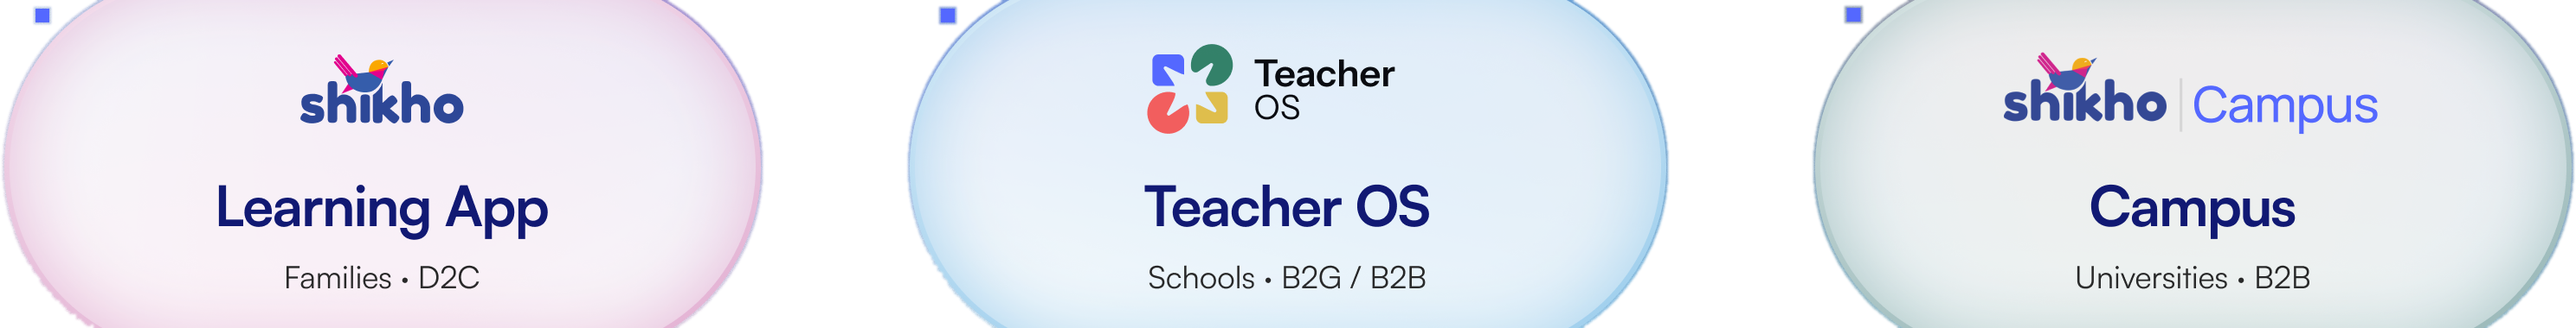
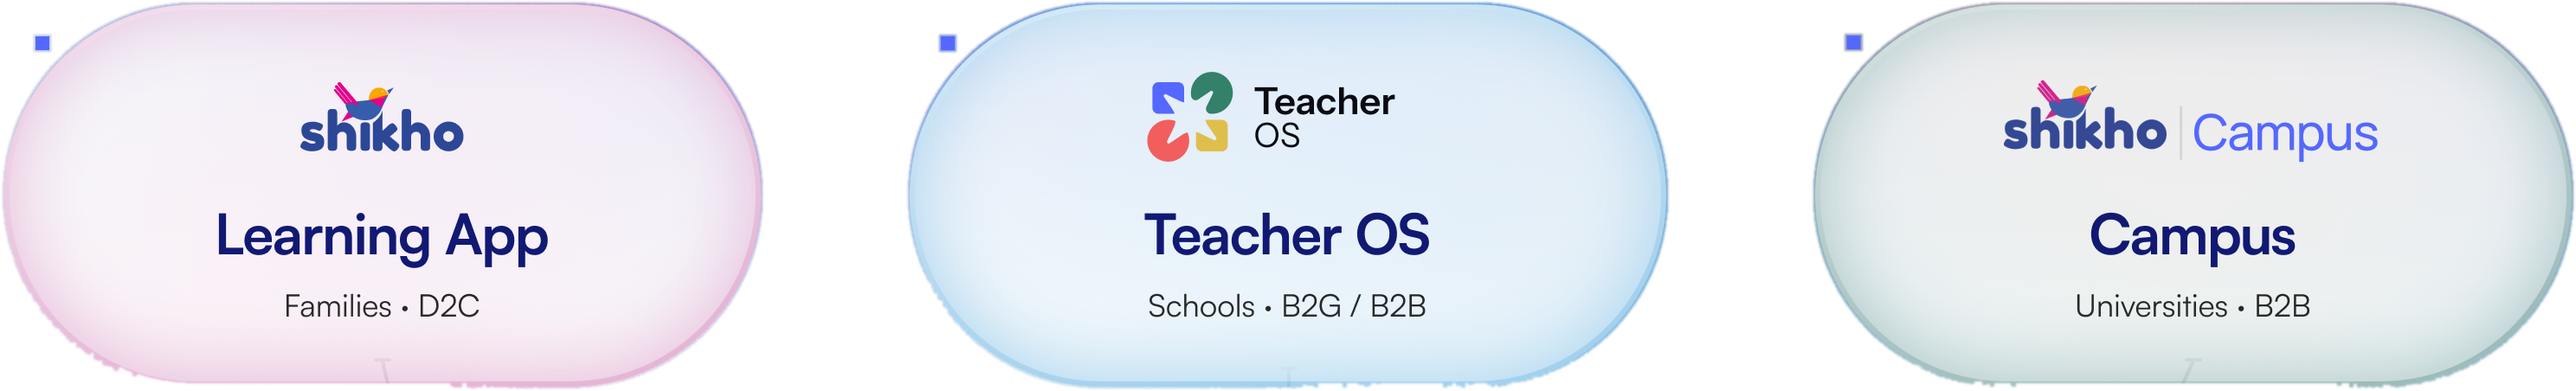
Engine slide: full-height pills, arrows draw into the shared engine
The pill row overflows its 150px Figma container, so the first cut clipped
the pills' tops and bottoms; re-cut at full height. The three flow arrows
are now stroked SVG paths that draw from each product into the engine,
staggered, with the arrowhead landing last.

diff --git a/index.html b/index.html
@@ -110,6 +110,15 @@
     font-family:"Satoshi","Inter",sans-serif; font-weight:700; text-transform:uppercase;
     font-size:100px; line-height:1.1; letter-spacing:-3px; color:#f4f5e7;
   }
+  /* Flow arrows into the shared engine: drawn from each product into the engine (stroke reveal), head lands last */
+  .flow-arrow{ position:absolute; z-index:2; overflow:visible; pointer-events:none; }
+  .flow-arrow path{ fill:none; stroke-width:2; stroke-linecap:round; stroke-linejoin:round; }
+  .flow-line{ stroke-dasharray:1 1; }
+  .slide.play .flow-line{ animation:flow-draw 800ms var(--ease-out) calc(900ms + var(--d)) backwards; }
+  .slide.play .flow-head{ animation:flow-head 260ms var(--ease-out) calc(1560ms + var(--d)) backwards; }
+  @keyframes flow-draw{ from{ stroke-dashoffset:1; } }
+  @keyframes flow-head{ from{ opacity:0; } }
+  @media (prefers-reduced-motion: reduce){ .slide.play .flow-line, .slide.play .flow-head{ animation:none; } }
   .engine-note{
     position:absolute; left:1426px; top:873px; width:385px; z-index:2; text-align:right;
     font-family:"Satoshi","Inter",sans-serif; font-weight:400; font-size:32px; line-height:0.98; color:#262626;
@@ -1044,10 +1053,16 @@ function slideEl(data, i){
           <div class="p3-header-right">${data.pageTag}</div>
         </div>
         <div class="engine-title">${data.title}</div>
-        <img class="intro-art" src="assets/web/intro/s3-pills.webp" style="left:198.5px; top:415px; width:1488px; height:190px;" alt="Learning App, Teacher OS and Campus">
-        <img class="intro-art" src="assets/intro/s3-arrow-left.svg" style="left:414.5px; top:606px; width:285px; height:211.76px;" alt="">
-        <img class="intro-art" src="assets/intro/s3-arrow-mid.svg" style="left:935.6px; top:611px; width:14.73px; height:74.5px;" alt="">
-        <img class="intro-art" src="assets/intro/s3-arrow-right.svg" style="left:1182px; top:606px; width:288.5px; height:211.49px;" alt="">
+        <img class="intro-art" src="assets/web/intro/s3-pills.webp?v=2" style="left:198.5px; top:399px; width:1488px; height:226px;" alt="Learning App, Teacher OS and Campus">
+        <svg class="flow-arrow" style="left:414.5px; top:606px; width:285px; height:211.76px; --d:0ms;" viewBox="0 0 285 211.76" aria-hidden="true"><defs><linearGradient id="fa-l" x1="133.25" y1="-19" x2="133.25" y2="205.5" gradientUnits="userSpaceOnUse"><stop stop-opacity="0.02"/><stop offset="1" stop-opacity="0.47"/></linearGradient></defs>
+          <path class="flow-line" pathLength="1" stroke="url(#fa-l)" d="M5 1C5 1 7 12 11 27C16.9 42.7 27.4 64.2 46 87C83.4 132.8 153.4 184 284 205.6"/>
+          <path class="flow-head" stroke="url(#fa-l)" d="M278.4 197.9L284.2 205.6L276.6 210.8"/></svg>
+        <svg class="flow-arrow" style="left:935.6px; top:611px; width:14.73px; height:74.5px; --d:120ms;" viewBox="0 0 14.7279 74.5" aria-hidden="true"><defs><linearGradient id="fa-m" x1="14.364" y1="1" x2="14.364" y2="90.99" gradientUnits="userSpaceOnUse"><stop stop-opacity="0.02"/><stop offset="1" stop-opacity="0.47"/></linearGradient></defs>
+          <path class="flow-line" pathLength="1" stroke="url(#fa-m)" d="M7.364 1V73"/>
+          <path class="flow-head" stroke="url(#fa-m)" d="M1 67.1L7.364 73.5L13.73 67.1"/></svg>
+        <svg class="flow-arrow" style="left:1182px; top:606px; width:288.5px; height:211.49px; --d:240ms;" viewBox="0 0 288.5 211.49" aria-hidden="true"><defs><linearGradient id="fa-r" x1="173.25" y1="-19" x2="173.25" y2="205.5" gradientUnits="userSpaceOnUse"><stop stop-opacity="0.02"/><stop offset="1" stop-opacity="0.47"/></linearGradient></defs>
+          <path class="flow-line" pathLength="1" stroke="url(#fa-r)" d="M283.5 1C283.5 1 278 15 270 26.6C261.1 41.7 247 63 226.4 86.4C183.9 131.9 113.2 183 1 205.5"/>
+          <path class="flow-head" stroke="url(#fa-r)" d="M6.8 197.9L1.2 205.3L8.5 210.6"/></svg>
         <img class="intro-art" src="assets/web/intro/s3-engine.webp" style="left:681.5px; top:688.5px; width:523px; height:303px;" alt="Shared learning engine: content, assessment, AI, commerce, data, APIs">
         <div class="engine-note">${data.note}</div>
       </div>`;
@@ -2265,6 +2280,7 @@ function assignMotion(section){
       return;
     }
     if(el.classList.contains('dp-flip')) return moSet(el, 'photo', 250);
+    if(/flow-arrow/.test(cls)) return;               // draws itself (see .flow-line)
     if(/cl-float/.test(cls)) return floats.push(el);
     heroes.push(el);
   });
